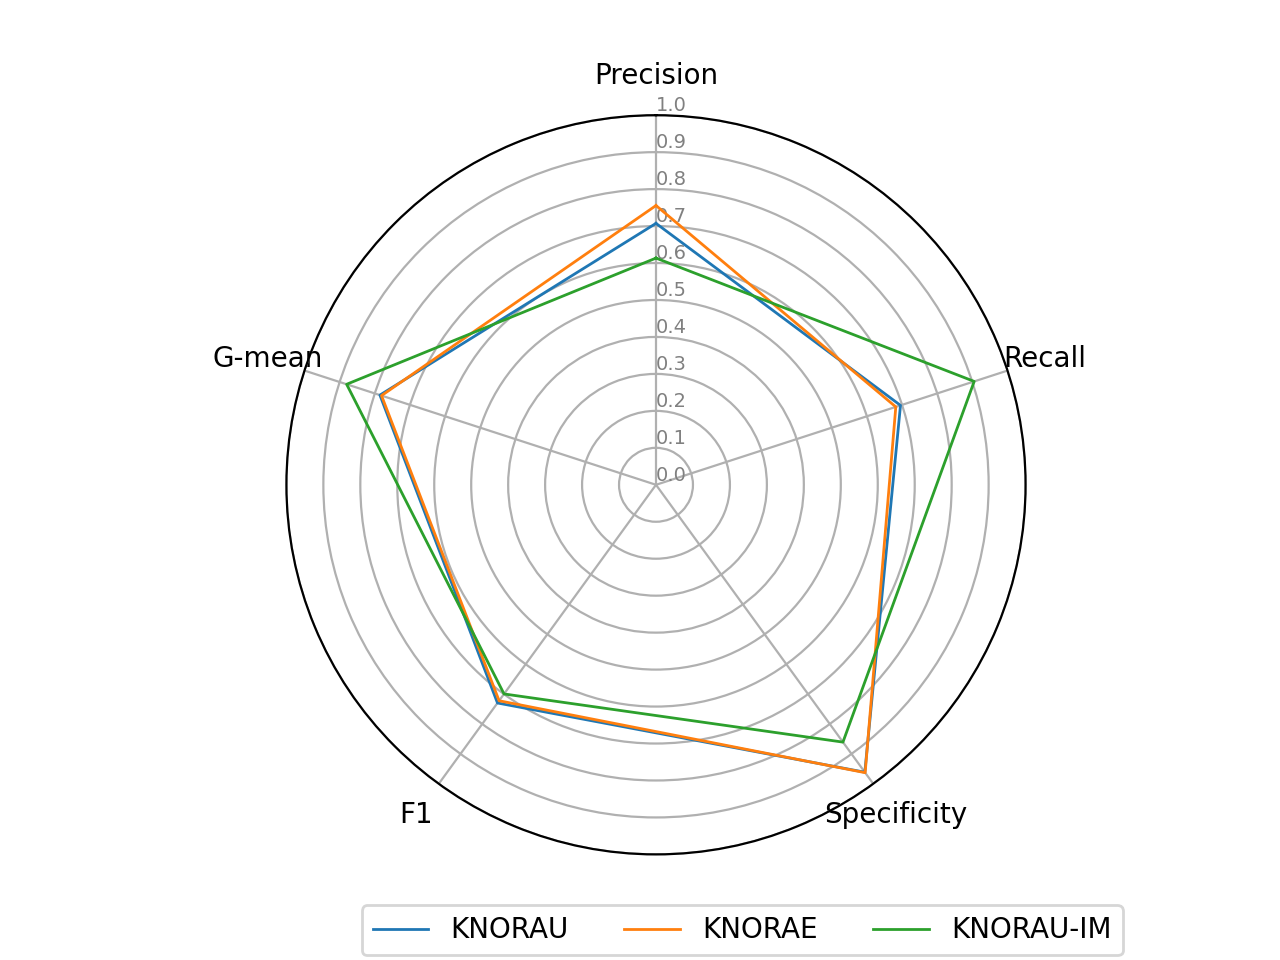
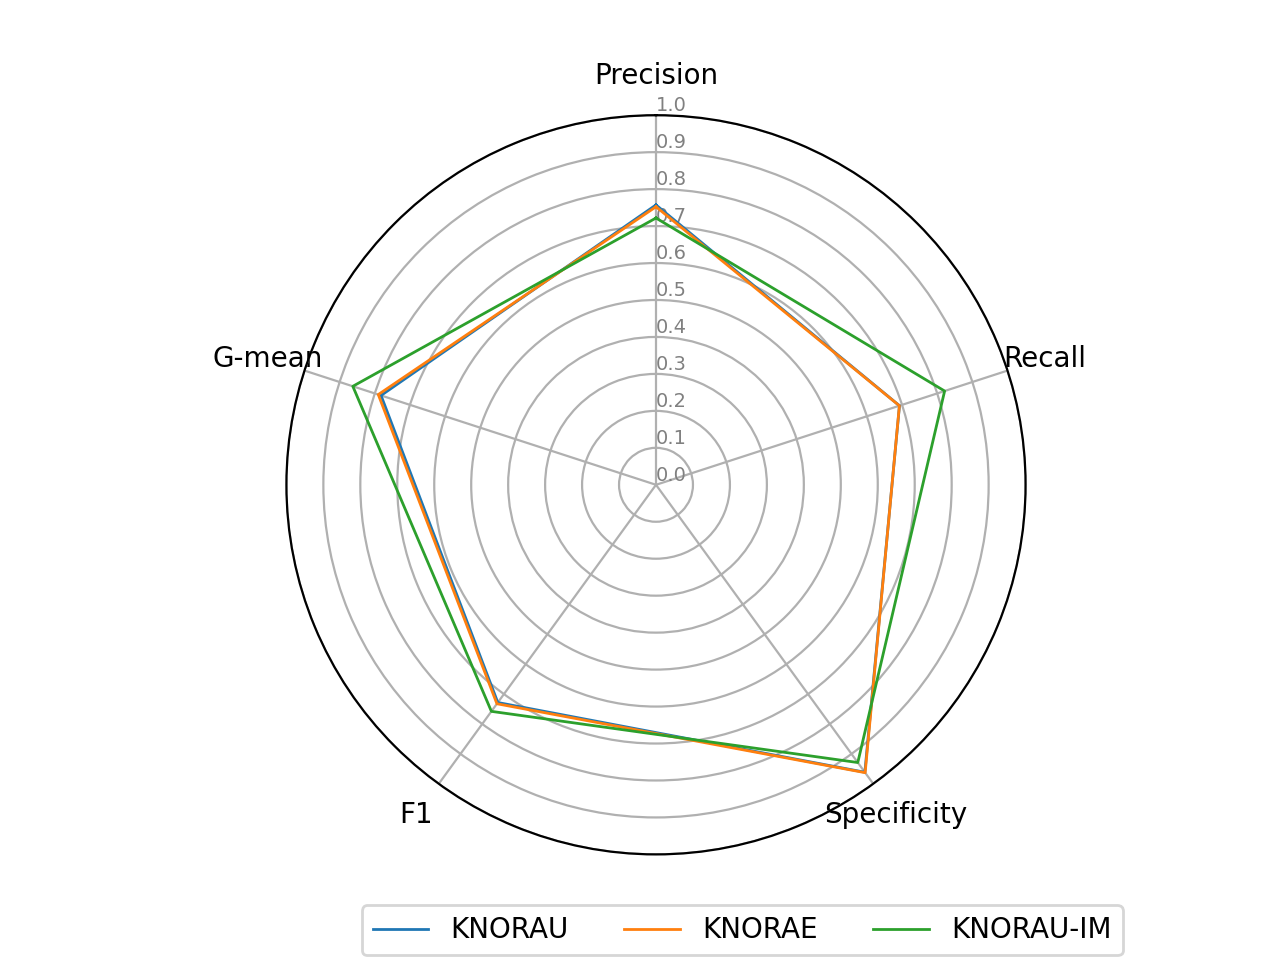
added random state, modified ir

Changed region(s): [[0.25, 0.2188, 0.7188, 0.6875], [0.375, 0.4062, 0.75, 0.8125], [0.7188, 0.375, 0.75, 0.4062]]

diff --git a/main.py b/main.py
@@ -41,11 +41,11 @@ for data_id, dataset in enumerate(datasets):
     # print(X)
     
     for fold_id, (train, test) in enumerate(rskf.split(X, y)):
-        pool_classifiers = RandomForestClassifier(n_estimators=15)
+        pool_classifiers = RandomForestClassifier(n_estimators=15, random_state=1234)
         pool_classifiers.fit(X[train], y[train])
         clfs = {
-            'KNORAU': KNORAU(pool_classifiers),
-            'KNORAE': KNORAE(pool_classifiers),
+            'KNORAU': KNORAU(pool_classifiers, random_state=1234),
+            'KNORAE': KNORAE(pool_classifiers, random_state=1234),
             'KNORA_U': KNORA_U(pool_classifiers, ir=ir),
         }
         for clf_id, clf in enumerate(clfs):

diff --git a/knoranew.py b/knoranew.py
@@ -2,7 +2,7 @@ import numpy as np
 from sklearn.utils.validation import check_X_y, check_array, check_is_fitted
 from sklearn.base import BaseEstimator, ClassifierMixin
 from sklearn.metrics import DistanceMetric
-
+from math import sqrt
 
 class KNORA_U(BaseEstimator, ClassifierMixin):
     def __init__(self, pool_classifiers=None, k=7, random_state=66, ir=1):
@@ -59,7 +59,7 @@ class KNORA_U(BaseEstimator, ClassifierMixin):
                 value = clf.predict(query.reshape(1, -1))
                 forecast += value
 
-            if forecast > (1/(1+self.ir))*len(ensemble):
+            if forecast > (1/(1+sqrt(self.ir)))*len(ensemble):
                 y_pred[i] = 1
 
         return y_pred
